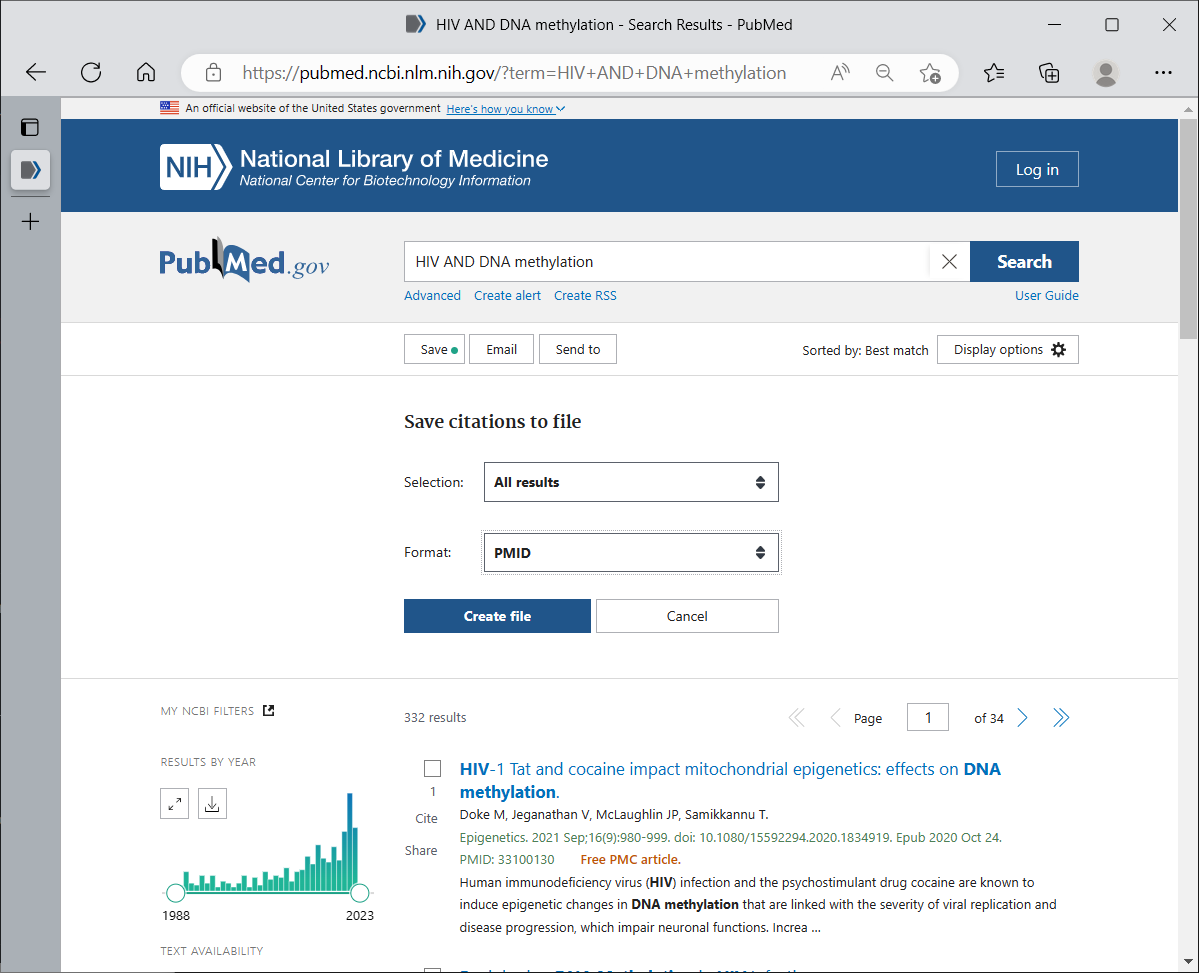
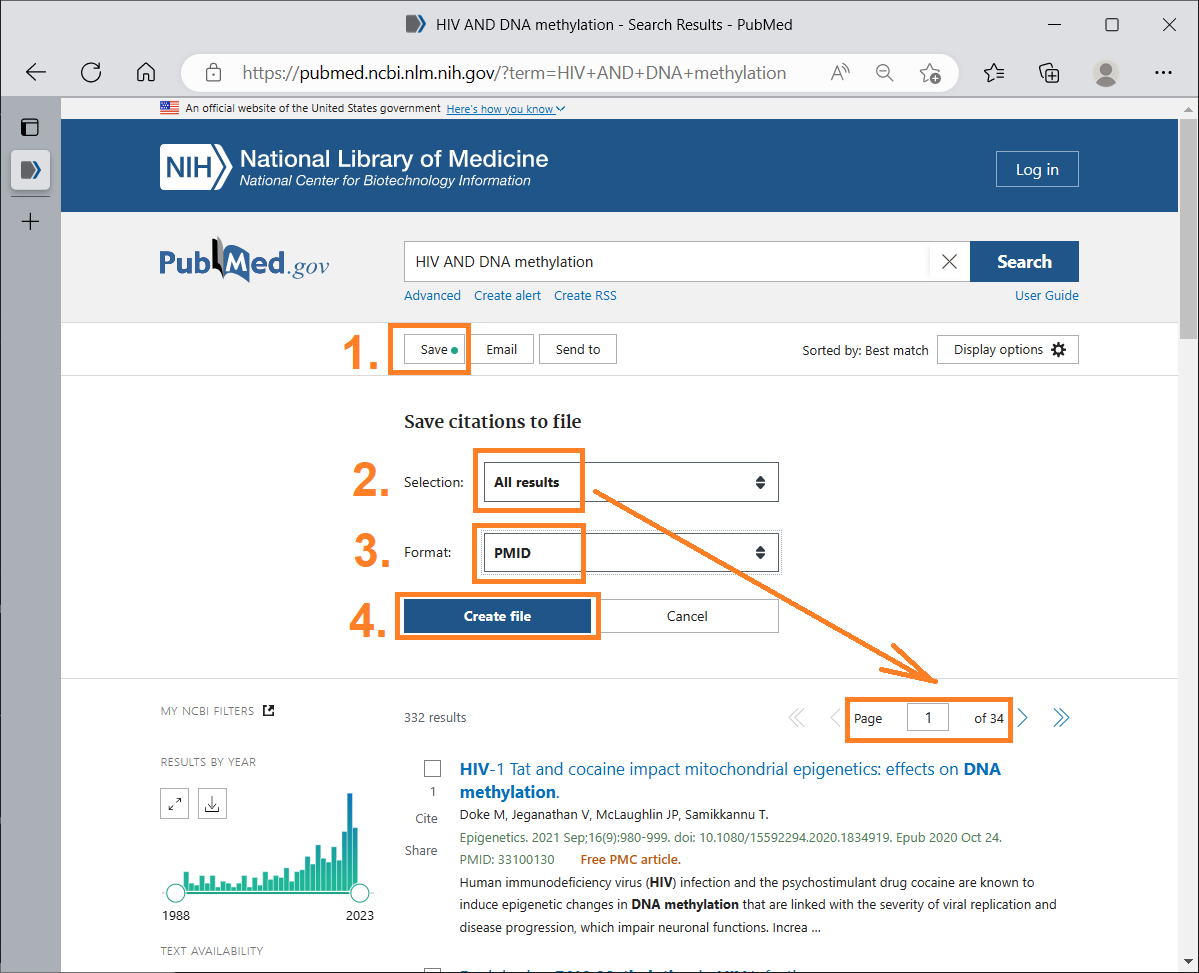
Add images & cmdline to show how to analyze the results of a PubMed search

diff --git a/README.md b/README.md
@@ -131,6 +131,10 @@ i=033.4% 4=003.4% 3=020.9% 2=021.9% 1=015.9% 0=004.4%   4 years:2018-2022   320 
 <p align="center"><img src="https://github.com/dvklopfenstein/pmidcite/raw/main/doc/images/pubmed_HIV_AND_Me_src.png" alt="pmidcite summary" width="500"/></p>   
 <p align="center"><img src="https://github.com/dvklopfenstein/pmidcite/raw/main/doc/images/pubmed_HIV_AND_Me_dnld.png" alt="pmidcite summary" width="500"/></p>   
 <p align="center"><img src="https://github.com/dvklopfenstein/pmidcite/raw/main/doc/images/pubmed_HIV_AND_Me_save.png" alt="pmidcite summary" width="500"/></p>   
+```
+$ icite -i pmid-HIVANDDNAm-set.txt -o pmid-HIVANDDNAm-icite.txt
+```
+
 
 ## Command Line Interface (CLI)
 
